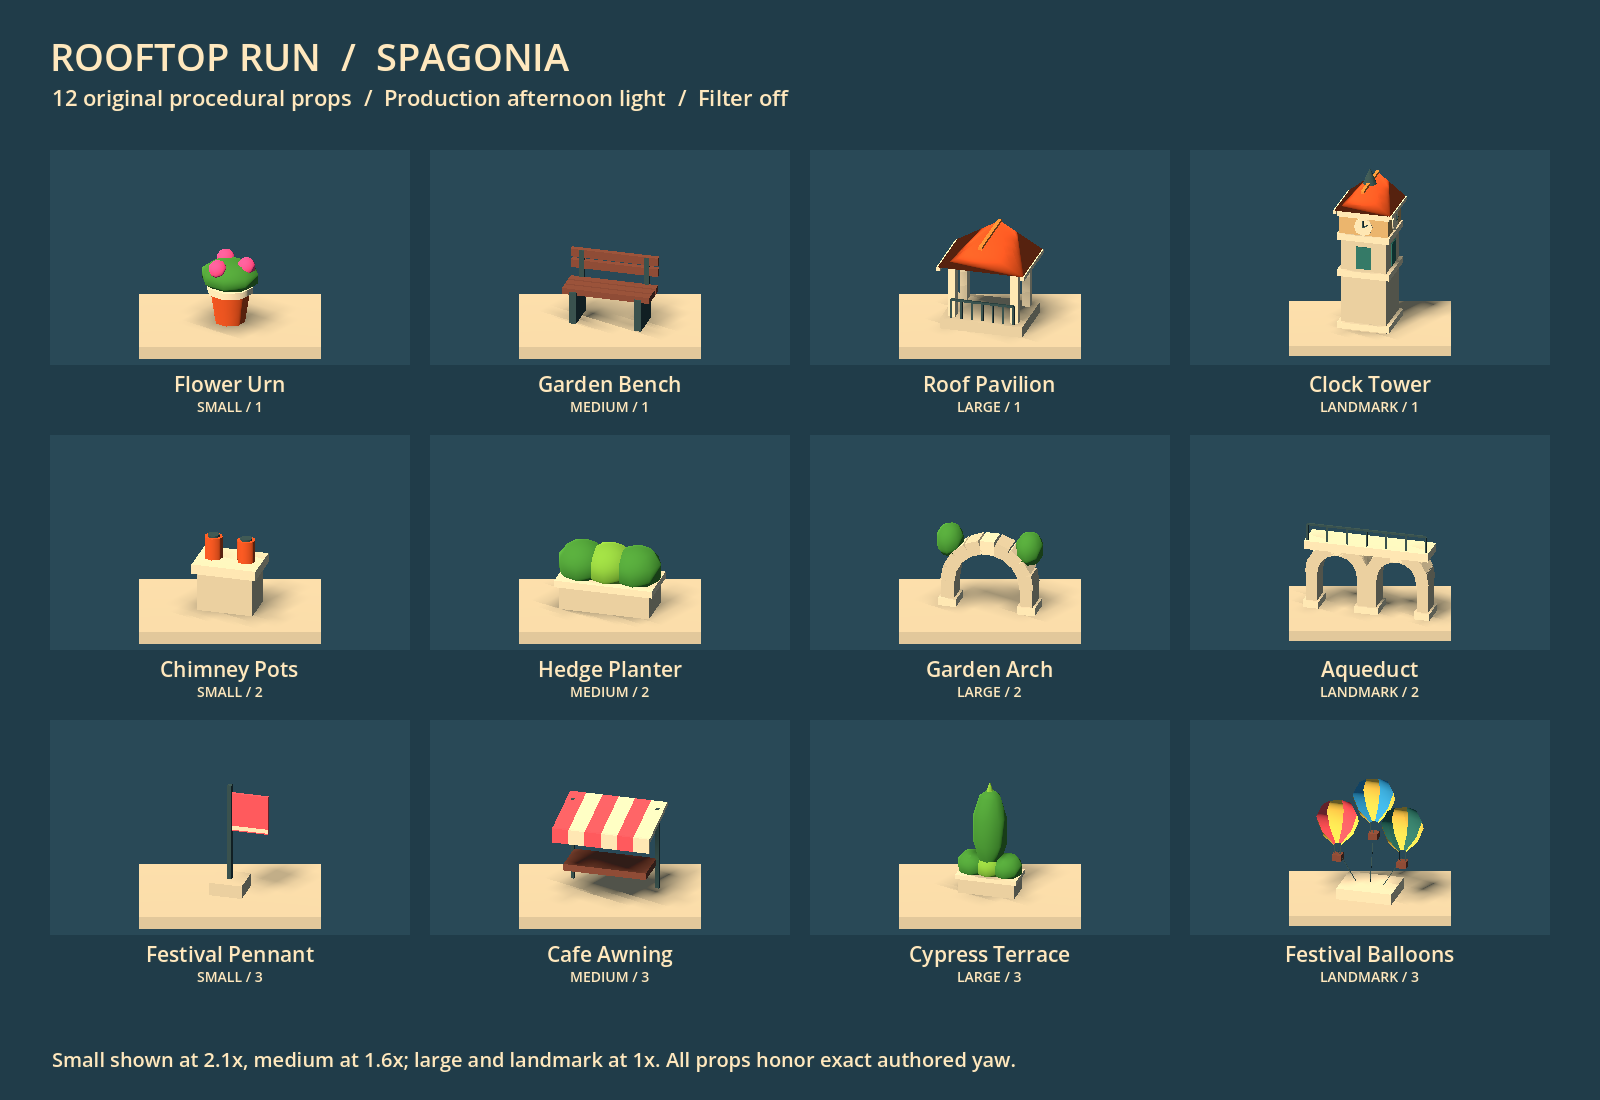
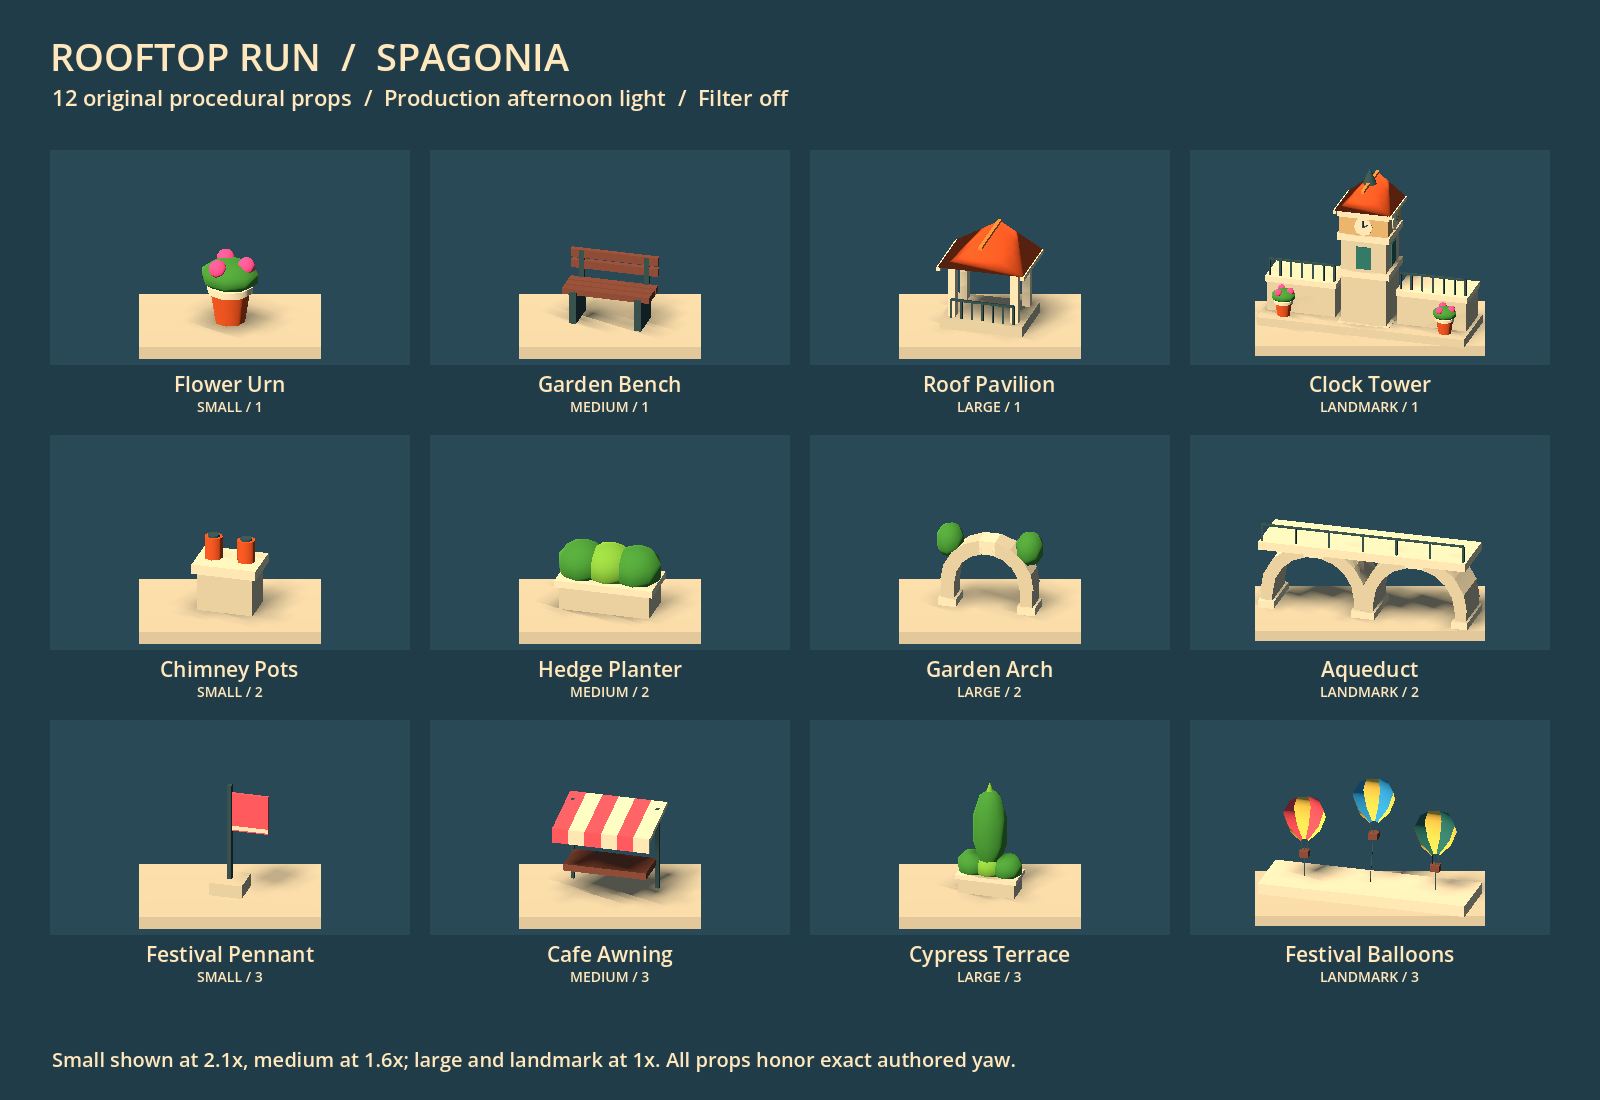
Align landmark footprints and Auto roles across themes

diff --git a/docs/DECOR_SLOTS.md b/docs/DECOR_SLOTS.md
@@ -26,7 +26,7 @@ All examples include small, medium, large and landmark slots, Spawn, connectors,
 4. **Ctrl+D / Duplicate** copies the transform half a cell diagonally and gives the new slot its own ID. **Delete** removes it. Placement, movement, property changes, duplication and deletion share the existing undo/redo history. Arrow keys move one pixel in free mode, or one cell with snap; Alt+arrows always move one pixel.
 5. **Show decor slots** hides markers and their selection targets without deleting records. Snap and visibility are session view preferences, not Act data.
 
-The Decor inspector scrolls when the window is short. Exact angle editing uses the existing field below the canvas. **Auto** remains the default variant. Choose **Preview: Green Hill / Chemical Plant** to see the current type/hint pool's friendly names, then select a numbered variant. This preview selector changes labels and availability only; it is not saved in the Act and does not load 3D editor ghosts. Variant edits share undo/redo and persistence with other slot properties.
+The Decor inspector scrolls when the window is short. Exact angle editing uses the existing field below the canvas. **Auto** remains the default variant. Choose **Preview: Green Hill / Chemical Plant / Rooftop Run** to see the current type/hint pool's friendly names, then select a numbered variant. This preview selector changes labels and availability only; it is not saved in the Act and does not load 3D editor ghosts. Variant edits share undo/redo and persistence with other slot properties.
 
 For Green Hill **small / surface**, **Variant 1 — Flower**, **Variant 2 — Small Rock**, **Variant 1 — Flower** stores indices **0, 1, 0**. Chemical Plant interprets the same records as **Beacon, Valve, Beacon**. If an index is unavailable after changing the preview theme, slot type or hint, the inspector retains it and displays a warning. Runtime uses deterministic Auto for that slot and lists the warning in the main game's level-source tooltip. Neither fallback changes the authored record.
 
@@ -47,7 +47,7 @@ Act format **7**, terrain library **2**, adds:
 
 Act records contain no mesh paths, Green Hill prop names or skin IDs. Slot IDs are generated only during authoring and stay fixed through movement, rotation and undo. A duplicate gets a fresh ID. IDs must be nonempty and unique within the Act.
 
-In Auto mode, `DecorSkin.resolve()` hashes the JSON array `[act_identity, slot_id, skin_id]` with SHA-256, converts its first eight hexadecimal digits to an integer, then takes modulo the selected pool length. Fixed mode directly indexes that same pool, independently of the seed and slot identity. Neither mode consumes gameplay RNG. Reloading, reordering slots, deleting other slots, or editing unrelated geometry cannot reshuffle an existing slot. Changing the slot type/hint or active skin selects a different pool. Preserve published pool order: fixed indices refer to those positions. An unavailable index falls back to Auto with a warning; an empty pool warns and skips the visual.
+For small, medium and large Auto slots, `DecorSkin.resolve()` hashes the JSON array `[act_identity, slot_id, skin_id]` with SHA-256, converts its first eight hexadecimal digits to an integer, then takes modulo the selected pool length. Landmarks instead share two composition roles across themes, using the original Green Hill hash namespace and modulo two. This preserves existing Green Hill choices while matching the other themes to them. Fixed mode directly indexes the selected pool, independently of the seed and slot identity. Neither mode consumes gameplay RNG. Reloading, reordering slots, deleting other slots, or editing unrelated geometry cannot reshuffle an existing slot. Preserve published pool order: fixed indices refer to those positions. An unavailable index falls back to Auto with a warning; an empty pool warns and skips the visual.
 
 The document fingerprint, deep-copy history, validation, and atomic save/reload comparison include variant mode and index. Angles and scale use the existing exact numeric byte storage convention. Formats 2–6 load in memory with no decor and no file rewrite. Format 7 introduced decor; current saves use format 10. Formats 7–9 retain their Auto slots unchanged on load. Formats below 7 cannot carry decor, and below 10 cannot carry fixed-variant fields. Existing terrain transforms and composite outlines remain exact.
 
@@ -63,7 +63,7 @@ For two-monitor authoring, save in the editor, then click **Reload Act** beside 
 
 Every spawned child is a visual `Node3D`/`MeshInstance3D`. There are no collision objects, physics shapes, hit targets, ring records, scores or ball callbacks. The normal presentation rebuild disposes all old props before a source/replay reload. Existing distant scenery and exterior edge-island dressing remain unchanged.
 
-To add a decor skin, provide its stable ID, pools for all four sizes and three hints, and a factory returning a collisionless `Node3D` in cell units. A full production theme supplies this skin through `ThemeDefinition.create_decor()` together with materials, environment and background builders. No Act schema or physics change is required. The original decor regression retains its minimal test factory; `theme_runtime_regression.gd` checks both real production themes with the same saved Acts.
+To add a decor skin, provide its stable ID, pools for all four sizes and three hints, and a factory returning a collisionless `Node3D` in cell units. Reserve landmark indices 0 and 1 for upright and span compositions within the shared envelope; additional landmarks are fixed-only choices. A full production theme supplies this skin through `ThemeDefinition.create_decor()` together with materials, environment and background builders. No Act schema or physics change is required. The original decor regression retains its minimal test factory; `theme_runtime_regression.gd` checks all three production themes with the same saved Acts.
 
 ### Green Hill library
 
@@ -78,9 +78,24 @@ The composition borrows the broad checker silhouettes, palms and sunflower accen
 
 **Landmark revision, 2026-10-25:** The loop's separate radial blocks have been replaced with two continuous meshes. The classic 3D turf-loop screenshot in the Generations gallery above informed its broad outer cliff, grassy inner opening and tangent approaches. The [Generations bridge screenshot](https://pics.alphacoders.com/pictures/view/596117) informed the second landmark's crosswise wooden deck, rope rails and grassy cliff supports. Both were inspected as visual references; the project geometry is original and procedural.
 
-Select a Landmark slot, preview **Green Hill**, and choose **Variant 1 — Turf Loop** or **Variant 2 — Rope Bridge**. All three placement pools share this order. Existing fixed loop slots retain index `0`; the bridge appends index `1`. Auto remains the default, and expanding its pool can change an existing Auto landmark's resolved appearance. Fix the index when a particular silhouette matters. Acts still save only generic mode/index values. At scale 1 the loop spans about 3.04 cells including approaches, and the bridge 2.95 cells; check overhang on narrow islands.
+Select a Landmark slot, preview **Green Hill**, and choose **Variant 1 — Turf Loop** or **Variant 2 — Rope Bridge**. All three placement pools share this order. Existing fixed loop slots retain index `0`; the bridge appends index `1`. Auto remains the default and now selects between those two shared composition roles. Fix the index when a particular silhouette matters. Acts still save only generic mode/index values. At scale 1 the loop spans about 3.04 cells including approaches, and the bridge 2.95 cells; check overhang on narrow islands.
 
 ![Green Hill landmarks with production materials and lighting](theme-captures/green-hill-landmarks.png)
+
+### Consistent landmark footprints across themes
+
+Landmarks use a common envelope of approximately **3 cells along local X by 1 cell deep**, centered on the existing anchor. The editor's angle tick points along that long axis. Geometry is composed to fit this envelope; the renderer does not stretch a tower or rotate it independently of the slot.
+
+| Saved variant | Composition | Green Hill | Chemical Plant | Rooftop Run |
+| --- | --- | --- | --- | --- |
+| 1 (index 0) | Upright centerpiece with long base | Turf loop and approaches | Reactor with service skid and pumps | Clock tower with side terraces |
+| 2 (index 1) | Low span | Rope bridge | Pipe arches and catwalk | Twin-span aqueduct |
+
+Auto chooses the same row in every theme for a given Act and slot. Previously Chemical Plant and Rooftop independently chose a landmark, and several variants had a compact or round footprint. Existing Auto slots in those two themes may therefore change appearance once. Green Hill's Auto choices and every published fixed index remain unchanged. Rooftop's fixed Variant 3 remains a balloon terrace, widened to the same envelope; it is not in the shared Auto pool. An unavailable fixed variant still warns and falls back to Auto.
+
+![Same landmark roles and footprint in all three production themes](theme-captures/landmark-themes.png)
+
+Background buildings keep their separate scenery proportions. This change affects authored landmark composition, with no Act schema change, source rewrite, terrain fitting, collision change, or anchor/rotation adjustment. Full-footprint support is still an authoring judgment; matching envelopes do not guarantee every narrow island supports an entire prop.
 
 ## Verification and manual review
 
@@ -91,11 +106,14 @@ Run from the repository with Godot 4:
 & 'C:\Program Files\Godot\Godot.exe' --headless --path . --script tests/decor_editor_smoke.gd
 & 'C:\Program Files\Godot\Godot.exe' --headless --path . --script tests/decor_runtime_smoke.gd
 & 'C:\Program Files\Godot\Godot.exe' --headless --path . --script tests/green_hill_landmarks.gd
+& 'C:\Program Files\Godot\Godot.exe' --headless --path . --script tests/landmark_theme_regression.gd
 ```
 
 Omit `--headless` and add `--rendering-method gl_compatibility --rendering-driver opengl3_angle` for graphical captures. Tests save captures under ignored `test-results/`; this document includes selected captures from the actual editor/game.
 
 The landmark check covers stable pool ordering, fixed selection, finite nondegenerate meshes and collisionless descendants. Its graphical mode captures front and three-quarter views using production materials and lighting.
+
+The cross-theme landmark check covers all placement hints, fixed indices (including Rooftop's optional balloon terrace), common measured mesh bounds and centering, low span heights, unchanged Green Hill Auto choices, shared roles, missing-index fallback, immutable slot records and unchanged non-landmark variation. Its graphical mode captures the matched six-prop sheet above. The footprint revision passed 120 headless landmark checks, 302 theme runtime checks, 91 Rooftop decor checks, 46 decor-data checks and 28 editor checks. Normal and retro captures of the user's unchanged decorated Act were also inspected.
 
 For the 2026-10-25 landmark revision, an isolated checkout passed 18 graphical landmark checks, 21 graphical main-game decor checks, 29 graphical editor checks and 46 headless decor-data checks, with zero failures or script/shader errors. Front/three-quarter contact sheets and the loop/bridge in main-game overview captures were visually inspected. Subjective composition and overhang on custom Acts remain manual art review.
 

diff --git a/docs/CHEMICAL_PLANT.md b/docs/CHEMICAL_PLANT.md
@@ -50,9 +50,9 @@ All props use local GDScript primitives, simple materials and low-sided cylinder
 | SMALL | Warning beacon, valve wheel, vent |
 | MEDIUM | Pump elbow, control cabinet, fluid canister |
 | LARGE | Pipe cluster, tank tower, girder machinery |
-| LANDMARK | Fluid reactor, sweeping pipe arch |
+| LANDMARK | Fluid reactor on a service skid, twin pipe arches with a catwalk |
 
-Landmark footprints are at most about 1.8 cells wide/high. Placement hints choose pools; they do not move anchors. Existing authored position, arbitrary rotation and optional scale remain authoritative. Unsupported anchors remain saveable drafts and are skipped visually, exactly as in Green Hill.
+Landmarks share an approximately 3-by-1-cell footprint with Green Hill and Rooftop Run. Variant 1 is an upright reactor on a long service skid; Variant 2 is a low catwalk with pipe arches. Placement hints choose pools; they do not move anchors. Existing authored position, arbitrary rotation and optional scale remain authoritative. Unsupported anchors remain saveable drafts and are skipped visually, exactly as in Green Hill. See [matched landmark compositions](DECOR_SLOTS.md#consistent-landmark-footprints-across-themes).
 
 ![Original Chemical Plant prop library](theme-captures/chemical-library.png)
 
@@ -76,7 +76,7 @@ ThemeDefinition
 
 `visual_lab.gd` owns the UI and calls only the presentation rebuild during a theme change. It restores camera pose/damping state, ring pickup transforms and bumper flash timers. The `game.gd` loop, physics profiles, flippers, bumpers, abilities, scoring, lifecycle, connector behavior and authored terrain are not changed by this milestone.
 
-Acts never reference theme names or asset filenames. `DecorSkin.resolve()` hashes `[act_identity, slot_id, skin_id]` with SHA-256 to select Auto variants without touching gameplay RNG. Auto remains the default. Authors can also store `variant_mode = "fixed"` and a generic zero-based `variant_index`; each theme maps that index into the selected type/hint pool. Missing indices warn and fall back to deterministic Auto without rewriting the Act. Reloading or reordering other slots does not reshuffle a slot. Published pool order is part of visual continuity. The editor's preview-theme selector shows the friendly names in either pool; see [decor workflow](DECOR_SLOTS.md).
+Acts never reference theme names or asset filenames. `DecorSkin.resolve()` hashes `[act_identity, slot_id, skin_id]` with SHA-256 for small, medium and large Auto variants without touching gameplay RNG. Landmark Auto uses the shared upright/span role hash, preserving Green Hill's choices across every theme. Auto remains the default. Authors can also store `variant_mode = "fixed"` and a generic zero-based `variant_index`; each theme maps that index into the selected type/hint pool. Missing indices warn and fall back to deterministic Auto without rewriting the Act. Reloading or reordering other slots does not reshuffle a slot. Published pool order is part of visual continuity. The editor's preview-theme selector shows the friendly names in each pool; see [decor workflow](DECOR_SLOTS.md).
 
 To add another theme, implement the contract, provide decor pools for the four sizes and three placement hints, then register its stable ID/name. No gameplay branch or Act schema change is needed. Optional post-processing remains the existing independently controlled OFF/retro stack; no theme forces a filter.
 

diff --git a/docs/GAME_DESIGN.md b/docs/GAME_DESIGN.md
@@ -43,7 +43,7 @@ See [Act Geometry Editor](ACT_GEOMETRY_EDITOR.md) for launch, controls, the edit
 
 ### Theme-aware authored decoration — 2026-10-25
 
-**Confirmed and implemented first version:** The Act Editor's Decor palette places generic small, medium, large and landmark slots with surface/edge/either hints, exact local positions, free numeric angles and safe optional scale (0.85–1.15). Composition is manual; the active skin selects a deterministic auto variant using a persistent Act seed, stable slot ID and skin ID. Acts contain no theme-specific mesh names. Format 7 preserves formats 2–6 without source rewrites and includes decor in save/load, validation and shared history.
+**Confirmed and implemented first version:** The Act Editor's Decor palette places generic small, medium, large and landmark slots with surface/edge/either hints, exact local positions, free numeric angles and safe optional scale (0.85–1.15). Composition is manual; the active skin selects a deterministic auto variant using a persistent Act seed, stable slot ID and skin ID. Landmarks now share two Auto composition roles across themes: upright centerpiece (fixed index 0) and low span (fixed index 1), within an approximately 3-by-1-cell envelope along the authored angle. Green Hill's original Auto choices and all published fixed indices remain stable; other themes follow that role instead of independently choosing compact or round landmarks. Extra themed landmarks remain available by fixed index. Acts contain no theme-specific mesh names. Format 7 preserves formats 2–6 without source rewrites and includes decor in save/load, validation and shared history.
 
 Green Hill resolves supported anchors onto raised terrain as collisionless palms, sunflowers, rocks, shrubs, checker pedestals and decorative loops. Unsupported anchors remain editable drafts and are skipped visually; no automatic relocation or map-wide scattering occurs. Gameplay collision, physics, scoring and character behavior remain independent. Three decorated authored examples exercise all four sizes. Prop tuning and composition need human review; other themes, named variants and themed editor ghosts remain future work. See [Decor Slots](DECOR_SLOTS.md) for the workflow, skin contract, examples and captures.
 

diff --git a/docs/ROOFTOP_RUN.md b/docs/ROOFTOP_RUN.md
@@ -47,9 +47,9 @@ All `surface`, `edge` and `either` hints have these three ordered variants. Numb
 
 ![Original Rooftop Run prop library](rooftop-captures/library.png)
 
-The existing editor preview selector gains Rooftop Run from the registry. Auto remains deterministic per Act seed, slot and skin. Fixed variants use the existing override implementation; unavailable indices warn and fall back to Auto without rewriting the Act. Published pool order must remain stable.
+The existing editor preview selector gains Rooftop Run from the registry. Small, medium and large Auto choices remain deterministic per Act seed, slot and skin. Landmark Auto shares upright/span choices with Green Hill and Chemical Plant. Fixed variants use the existing override implementation; unavailable indices warn and fall back to Auto without rewriting the Act. Published pool order remains stable; the balloon terrace is available as fixed Landmark Variant 3.
 
-The common placement path applies the exact authored anchor, arbitrary yaw and scale. No 90-degree snapping or terrain-dependent reorientation is introduced. A bench's long axis and an arch's opening follow the slot rotation. Unsupported anchors retain the existing skip behavior. The widest landmark is approximately 1.8 cells; the clock tower is approximately 2.36 cells tall, so overhang and occlusion remain authoring considerations.
+The common placement path applies the exact authored anchor, arbitrary yaw and scale. No 90-degree snapping or terrain-dependent reorientation is introduced. A bench's long axis and an arch's opening follow the slot rotation. Unsupported anchors retain the existing skip behavior. Authored landmarks now share an approximately 3-by-1-cell footprint with the other themes: a clock tower with side terraces, a wider aqueduct, or a long balloon terrace. The tower remains approximately 2.36 cells tall. Background towers and aqueducts retain their compact scenery proportions. See [matched landmark compositions](DECOR_SLOTS.md#consistent-landmark-footprints-across-themes); overhang and occlusion remain authoring considerations.
 
 ## Same Act, three identities
 
